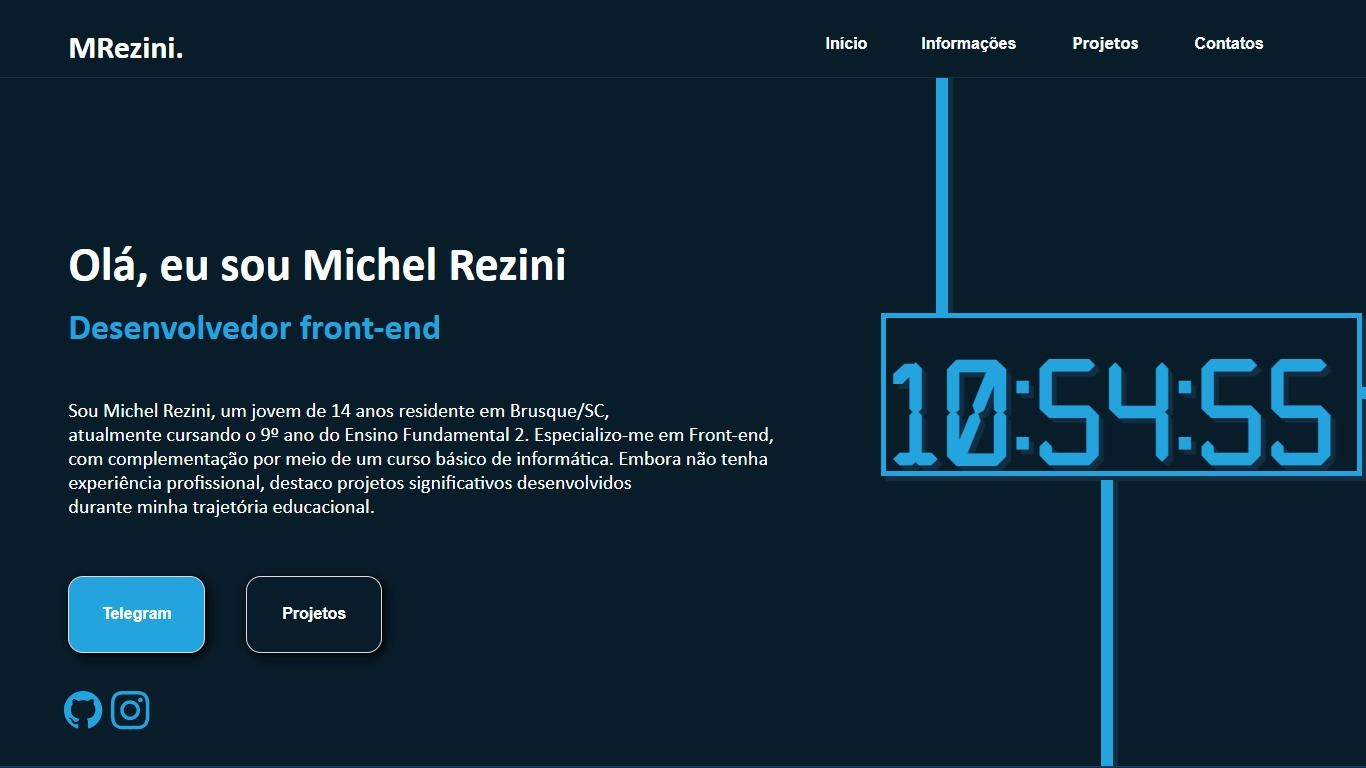
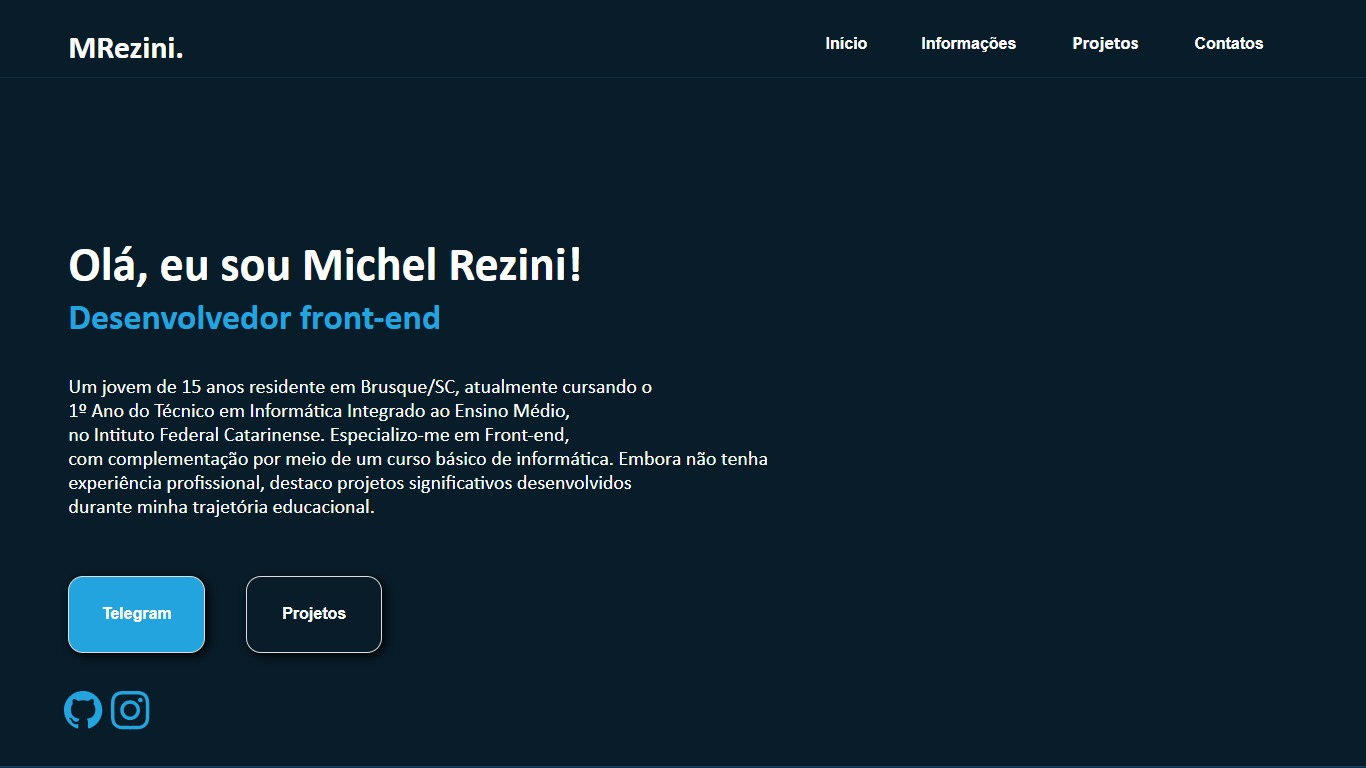
1.0/2025

diff --git a/index.html b/index.html
@@ -26,24 +26,16 @@
     </div>
 
     <div class="conteudoI">
-        <h1 class="title">Olá, eu sou Michel Rezini<span class="job"><br>Desenvolvedor front-end</h1>
-        <p class="textI">Sou Michel Rezini, um jovem de 14 anos residente em Brusque/SC,<br> atualmente cursando o 9º ano do Ensino Fundamental 2. Especializo-me em Front-end,<br> com complementação por meio de um curso básico de informática. Embora não tenha<br> experiência profissional, destaco projetos significativos desenvolvidos <br>durante minha trajetória educacional.</p>
+        <h1 class="title">Olá, eu sou Michel Rezini!<span class="job"><br>Desenvolvedor front-end</h1>
+        <p class="textI">Um jovem de 15 anos residente em Brusque/SC, atualmente cursando o<br> 1º Ano do Técnico em Informática Integrado ao Ensino Médio,<br> no Intituto Federal Catarinense. Especializo-me em Front-end,<br> com complementação por meio de um curso básico de informática. Embora não tenha<br> experiência profissional, destaco projetos significativos desenvolvidos <br>durante minha trajetória educacional.</p>
         <button class="b6" onclick="redirectToTelegram()">Telegram</button>
         <a id="p__" href="#slides_"><button class="b7">Projetos</button></a>
         <div class="contatos_">
             <a href="https://github.com/michel-sys" target="_blank"><svg class="git" xmlns="http://www.w3.org/2000/svg" width="24" height="24" viewBox="0 0 24 24"><path d="M12 0c-6.626 0-12 5.373-12 12 0 5.302 3.438 9.8 8.207 11.387.599.111.793-.261.793-.577v-2.234c-3.338.726-4.033-1.416-4.033-1.416-.546-1.387-1.333-1.756-1.333-1.756-1.089-.745.083-.729.083-.729 1.205.084 1.839 1.237 1.839 1.237 1.07 1.834 2.807 1.304 3.492.997.107-.775.418-1.305.762-1.604-2.665-.305-5.467-1.334-5.467-5.931 0-1.311.469-2.381 1.236-3.221-.124-.303-.535-1.524.117-3.176 0 0 1.008-.322 3.301 1.23.957-.266 1.983-.399 3.003-.404 1.02.005 2.047.138 3.006.404 2.291-1.552 3.297-1.23 3.297-1.23.653 1.653.242 2.874.118 3.176.77.84 1.235 1.911 1.235 3.221 0 4.609-2.807 5.624-5.479 5.921.43.372.823 1.102.823 2.222v3.293c0 .319.192.694.801.576 4.765-1.589 8.199-6.086 8.199-11.386 0-6.627-5.373-12-12-12z"/></svg></a>
           </div>
-          <a href="https://www.instagram.com/michel_rezn/" target="_blank"><svg class="insta" xmlns="http://www.w3.org/2000/svg" width="24" height="24" viewBox="0 0 24 24"><path d="M12 2.163c3.204 0 3.584.012 4.85.07 3.252.148 4.771 1.691 4.919 4.919.058 1.265.069 1.645.069 4.849 0 3.205-.012 3.584-.069 4.849-.149 3.225-1.664 4.771-4.919 4.919-1.266.058-1.644.07-4.85.07-3.204 0-3.584-.012-4.849-.07-3.26-.149-4.771-1.699-4.919-4.92-.058-1.265-.07-1.644-.07-4.849 0-3.204.013-3.583.07-4.849.149-3.227 1.664-4.771 4.919-4.919 1.266-.057 1.645-.069 4.849-.069zm0-2.163c-3.259 0-3.667.014-4.947.072-4.358.2-6.78 2.618-6.98 6.98-.059 1.281-.073 1.689-.073 4.948 0 3.259.014 3.668.072 4.948.2 4.358 2.618 6.78 6.98 6.98 1.281.058 1.689.072 4.948.072 3.259 0 3.668-.014 4.948-.072 4.354-.2 6.782-2.618 6.979-6.98.059-1.28.073-1.689.073-4.948 0-3.259-.014-3.667-.072-4.947-.196-4.354-2.617-6.78-6.979-6.98-1.281-.059-1.69-.073-4.949-.073zm0 5.838c-3.403 0-6.162 2.759-6.162 6.162s2.759 6.163 6.162 6.163 6.162-2.759 6.162-6.163c0-3.403-2.759-6.162-6.162-6.162zm0 10.162c-2.209 0-4-1.79-4-4 0-2.209 1.791-4 4-4s4 1.791 4 4c0 2.21-1.791 4-4 4zm6.406-11.845c-.796 0-1.441.645-1.441 1.44s.645 1.44 1.441 1.44c.795 0 1.439-.645 1.439-1.44s-.644-1.44-1.439-1.44z"/></svg></a>
+          <a href="https://www.instagram.com/michel_rezini/" target="_blank"><svg class="insta" xmlns="http://www.w3.org/2000/svg" width="24" height="24" viewBox="0 0 24 24"><path d="M12 2.163c3.204 0 3.584.012 4.85.07 3.252.148 4.771 1.691 4.919 4.919.058 1.265.069 1.645.069 4.849 0 3.205-.012 3.584-.069 4.849-.149 3.225-1.664 4.771-4.919 4.919-1.266.058-1.644.07-4.85.07-3.204 0-3.584-.012-4.849-.07-3.26-.149-4.771-1.699-4.919-4.92-.058-1.265-.07-1.644-.07-4.849 0-3.204.013-3.583.07-4.849.149-3.227 1.664-4.771 4.919-4.919 1.266-.057 1.645-.069 4.849-.069zm0-2.163c-3.259 0-3.667.014-4.947.072-4.358.2-6.78 2.618-6.98 6.98-.059 1.281-.073 1.689-.073 4.948 0 3.259.014 3.668.072 4.948.2 4.358 2.618 6.78 6.98 6.98 1.281.058 1.689.072 4.948.072 3.259 0 3.668-.014 4.948-.072 4.354-.2 6.782-2.618 6.979-6.98.059-1.28.073-1.689.073-4.948 0-3.259-.014-3.667-.072-4.947-.196-4.354-2.617-6.78-6.979-6.98-1.281-.059-1.69-.073-4.949-.073zm0 5.838c-3.403 0-6.162 2.759-6.162 6.162s2.759 6.163 6.162 6.163 6.162-2.759 6.162-6.163c0-3.403-2.759-6.162-6.162-6.162zm0 10.162c-2.209 0-4-1.79-4-4 0-2.209 1.791-4 4-4s4 1.791 4 4c0 2.21-1.791 4-4 4zm6.406-11.845c-.796 0-1.441.645-1.441 1.44s.645 1.44 1.441 1.44c.795 0 1.439-.645 1.439-1.44s-.644-1.44-1.439-1.44z"/></svg></a>
 
-      <div id="relogio">
 
-          <div id="clock"></div>
-          <div id="fundoClock"></div>
-          <div id="aba1"></div>
-          <div id="aba2"></div>
-          <div id="aba3"></div>
-
-        </div>
 
     </div>
 
@@ -52,16 +44,16 @@
     <div id="budy2">
         <div class="perfil">
             <div class="fundo_texto"></div>
-            <img src="./img/278476852_1025007611455334_3772848238751558162_n.jpg" class="eu_img"></img>
+            <img src="./img/2025.jpg" class="eu_img"></img>
             <div class="divisão"></div>
             <h2 class="name2">Michel Rezini</h2>
             <div class="divisão_"></div>
             <svg class="user_icon" xmlns="http://www.w3.org/2000/svg" fill="#A1A3B3" width="24" height="24" viewBox="0 0 24 24"><path d="M12 0c-6.627 0-12 5.373-12 12s5.373 12 12 12 12-5.373 12-12-5.373-12-12-12zm7.753 18.305c-.261-.586-.789-.991-1.871-1.241-2.293-.529-4.428-.993-3.393-2.945 3.145-5.942.833-9.119-2.489-9.119-3.388 0-5.644 3.299-2.489 9.119 1.066 1.964-1.148 2.427-3.393 2.945-1.084.25-1.608.658-1.867 1.246-1.405-1.723-2.251-3.919-2.251-6.31 0-5.514 4.486-10 10-10s10 4.486 10 10c0 2.389-.845 4.583-2.247 6.305z"/><p class="info BA">Michel Rezini</p></svg>
-            <svg class="time_icon" xmlns="http://www.w3.org/2000/svg" fill="#A1A3B3" width="24" height="24" viewBox="0 0 24 24"><path d="M18.513 7.119c.958-1.143 1.487-2.577 1.487-4.036v-3.083h-16v3.083c0 1.459.528 2.892 1.487 4.035l3.087 3.68c.566.677.57 1.625.009 2.306l-3.13 3.794c-.937 1.136-1.453 2.555-1.453 3.995v3.107h16v-3.107c0-1.44-.517-2.858-1.453-3.994l-3.13-3.794c-.562-.681-.558-1.629.009-2.306l3.087-3.68zm-.513-4.12c0 1.101-.363 2.05-1.02 2.834l-.978 1.167h-8.004l-.978-1.167c-.66-.785-1.02-1.736-1.02-2.834h12zm-.996 15.172c.652.791.996 1.725.996 2.829h-1.061c-1.939-2-4.939-2-4.939-2s-3 0-4.939 2h-1.061c0-1.104.344-2.039.996-2.829l3.129-3.793c.342-.415.571-.886.711-1.377h.164v1h2v-1h.163c.141.491.369.962.711 1.376l3.13 3.794zm-6.004-1.171h2v1h-2v-1zm0-2h2v1h-2v-1z"/><p class="info BB">14 anos</p></svg>
+            <svg class="time_icon" xmlns="http://www.w3.org/2000/svg" fill="#A1A3B3" width="24" height="24" viewBox="0 0 24 24"><path d="M18.513 7.119c.958-1.143 1.487-2.577 1.487-4.036v-3.083h-16v3.083c0 1.459.528 2.892 1.487 4.035l3.087 3.68c.566.677.57 1.625.009 2.306l-3.13 3.794c-.937 1.136-1.453 2.555-1.453 3.995v3.107h16v-3.107c0-1.44-.517-2.858-1.453-3.994l-3.13-3.794c-.562-.681-.558-1.629.009-2.306l3.087-3.68zm-.513-4.12c0 1.101-.363 2.05-1.02 2.834l-.978 1.167h-8.004l-.978-1.167c-.66-.785-1.02-1.736-1.02-2.834h12zm-.996 15.172c.652.791.996 1.725.996 2.829h-1.061c-1.939-2-4.939-2-4.939-2s-3 0-4.939 2h-1.061c0-1.104.344-2.039.996-2.829l3.129-3.793c.342-.415.571-.886.711-1.377h.164v1h2v-1h.163c.141.491.369.962.711 1.376l3.13 3.794zm-6.004-1.171h2v1h-2v-1zm0-2h2v1h-2v-1z"/><p class="info BB">15 anos</p></svg>
             <svg class="home_icon" width="24" height="24" xmlns="http://www.w3.org/2000/svg" fill="#A1A3B3" fill-rule="evenodd" clip-rule="evenodd"><path d="M13 23l-9.983-.014v-9.979l8.974-7.995c1.124.999 2.25 1.998 3.378 2.998l2.255 1.999c1.127.999 2.252 1.992 3.376 2.991v10l-5.993-.014-.007-4.986h-2v5zm6-2l.019-7.121-7.028-6.193-6.991 6.218v7.096h6v-5h6v5h2zm-10-5v3h-2v-3h2zm3-15l12 10.654-1.328 1.494-10.672-9.488-10.672 9.488-1.328-1.494 12-10.654z"/><p class="info BC">Brusuque/Santa Catarina</p></svg>
             <svg class="mala_icon" xmlns="http://www.w3.org/2000/svg" fill="#A1A3B3" width="24" height="24" viewBox="0 0 24 24"><path d="M0 7v15h24v-15h-24zm22 13h-20v-11h15v5l1.5-1.5 1.5 1.5v-5h2v11zm-13-14h-2v-2c0-1.104.896-2 2-2h6c1.104 0 2 .896 2 2v2h-2v-1.5c0-.276-.224-.5-.5-.5h-5c-.276 0-.5.224-.5.5v1.5z"/><p class="info BD">Freelancer</p></svg>
-            <svg class="notebook_icon" xmlns="http://www.w3.org/2000/svg" fill="#A1A3B3" width="24" height="24" viewBox="0 0 24 24"><path d="M22 3.2c0-.663-.537-1.2-1.2-1.2h-17.6c-.663 0-1.2.537-1.2 1.2v11.8h20v-11.8zm-2 9.8h-16v-9h16v9zm2 3h-20c-.197.372-2 4.582-2 4.998 0 .522.418 1.002 1.002 1.002h21.996c.584 0 1.002-.48 1.002-1.002 0-.416-1.803-4.626-2-4.998zm-12.229 5l.467-1h3.523l.467 1h-4.457z"/><p class="info BE">JavaScript, HTML e CSS</p></svg>
-            <svg class="school_icon" width="24" height="24" xmlns="http://www.w3.org/2000/svg" fill="#A1A3B3" fill-rule="evenodd" clip-rule="evenodd"><path d="M22 22h1v2h-22v-2h1v-8h20v8zm-7-5h-6v6h2v-5h2v5h2v-6zm-9 3h-2v2h2v-2zm14 0h-2v2h2v-2zm-14-4h-2v2h2v-2zm14 0h-2v2h2v-2zm4-3h-24l3-7h3.943l-2.601 2.229.66.771 5.998-5.143v-3.857h5l-1 1.491 1 1.509h-4l6.999 6 .661-.771-2.602-2.229h3.942l3 7zm-12-6.5c1.38 0 2.5 1.12 2.5 2.5s-1.12 2.5-2.5 2.5-2.5-1.12-2.5-2.5 1.12-2.5 2.5-2.5zm0 2.5h1v.8h-1.763v-1.8h.763v1z"/><p class="info BF">9° Ano - Ensino Fundamental II</p></svg>
+            <svg class="notebook_icon" xmlns="http://www.w3.org/2000/svg" fill="#A1A3B3" width="24" height="24" viewBox="0 0 24 24"><path d="M22 3.2c0-.663-.537-1.2-1.2-1.2h-17.6c-.663 0-1.2.537-1.2 1.2v11.8h20v-11.8zm-2 9.8h-16v-9h16v9zm2 3h-20c-.197.372-2 4.582-2 4.998 0 .522.418 1.002 1.002 1.002h21.996c.584 0 1.002-.48 1.002-1.002 0-.416-1.803-4.626-2-4.998zm-12.229 5l.467-1h3.523l.467 1h-4.457z"/><p class="info BE">Front-End</p></svg>
+            <svg class="school_icon" width="24" height="24" xmlns="http://www.w3.org/2000/svg" fill="#A1A3B3" fill-rule="evenodd" clip-rule="evenodd"><path d="M22 22h1v2h-22v-2h1v-8h20v8zm-7-5h-6v6h2v-5h2v5h2v-6zm-9 3h-2v2h2v-2zm14 0h-2v2h2v-2zm-14-4h-2v2h2v-2zm14 0h-2v2h2v-2zm4-3h-24l3-7h3.943l-2.601 2.229.66.771 5.998-5.143v-3.857h5l-1 1.491 1 1.509h-4l6.999 6 .661-.771-2.602-2.229h3.942l3 7zm-12-6.5c1.38 0 2.5 1.12 2.5 2.5s-1.12 2.5-2.5 2.5-2.5-1.12-2.5-2.5 1.12-2.5 2.5-2.5zm0 2.5h1v.8h-1.763v-1.8h.763v1z"/><p class="info BF">1º Ano do Ensino Médio </p></svg>
             
     </div>
     <div id="slides_"></div>
@@ -88,15 +80,15 @@
       <div class="body3">
         <div id="social">
           <ul class="contatosS" id="contatosS">
-            <li class="social"><a class="social2" target="_blank" href="https://www.instagram.com/michel_rezn/">Instagram</a></li>
-            <li class="social"><a class="social2" target="_blank" href="https://www.threads.net/@michel_rezn">Threads</a></li>
+            <li class="social"><a class="social2" target="_blank" href="https://www.instagram.com/michel_rezini/">Instagram</a></li>
+            <li class="social"><a class="social2" target="_blank" href="https://www.threads.net/@michel_rezini">Threads</a></li>
             <li class="social"><a class="social2" target="_blank" href="https://michel-sys.github.io/MRezini/">GitHub</a></li>
             <li class="social"><a class="social2" target="_blank" href="https://twitter.com/michelJJ00">Twitter</a></li>
-            <li class="social"><a class="social2" target="_blank" href="https://mail.google.com/mail/u/0/#search/michelrezinidev%40gmail.com">Gmail</a></li>
+            <li class="social"><a class="social2" target="_blank" href="https://mail.google.com/mail/u/0/#search/michelrezinidev%40gmail.com?compose=new">Gmail</a></li>
           </ul>
         </div>
         <div id="descriçao"><p id="desc2">
-          Sou <strong>Michel Rezini</strong>, residente em Brusque/SC. Atualmente estou cursando o <strong>9º ano do Ensino <br>Fundamental II</strong>, com foco em <strong>Front-end</strong> e conhecimento adicional em <strong>informática</strong>. Apesar da<br> falta de experiência profissional, destaca-me por meus projetos.
+          Sou <strong>Michel Rezini</strong>, residente em Brusque/SC. Atualmente estou cursando o <strong>1º Ano do Técnico<br> em Informática Integrado ao Ensino Médio</strong>, com foco em <strong>Front-end</strong> e conhecimento adicional<br> em <strong>informática</strong>. Apesar da falta de experiência profissional, destaca-me por meus projetos.
         </p>
 
         <button onclick="gostei()" id="cg" class="like like2 like3">

diff --git a/css/style.css b/css/style.css
@@ -73,8 +73,10 @@ body::-webkit-scrollbar {
 }
 
 .job {
+  position: relative;
   color: #24a4df;
   font-size: 75%;
+  top: -10px;
 }
 
 .textI {
